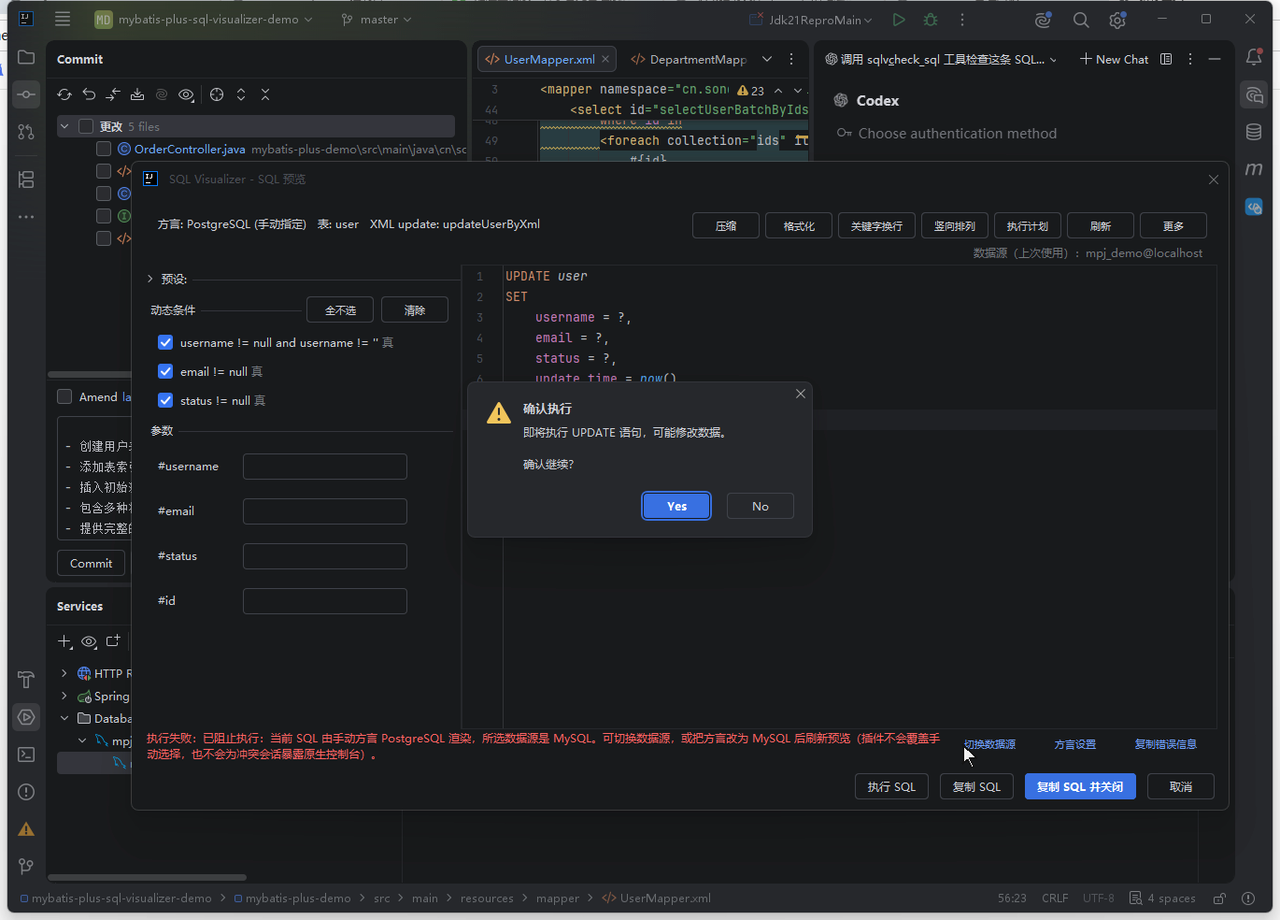
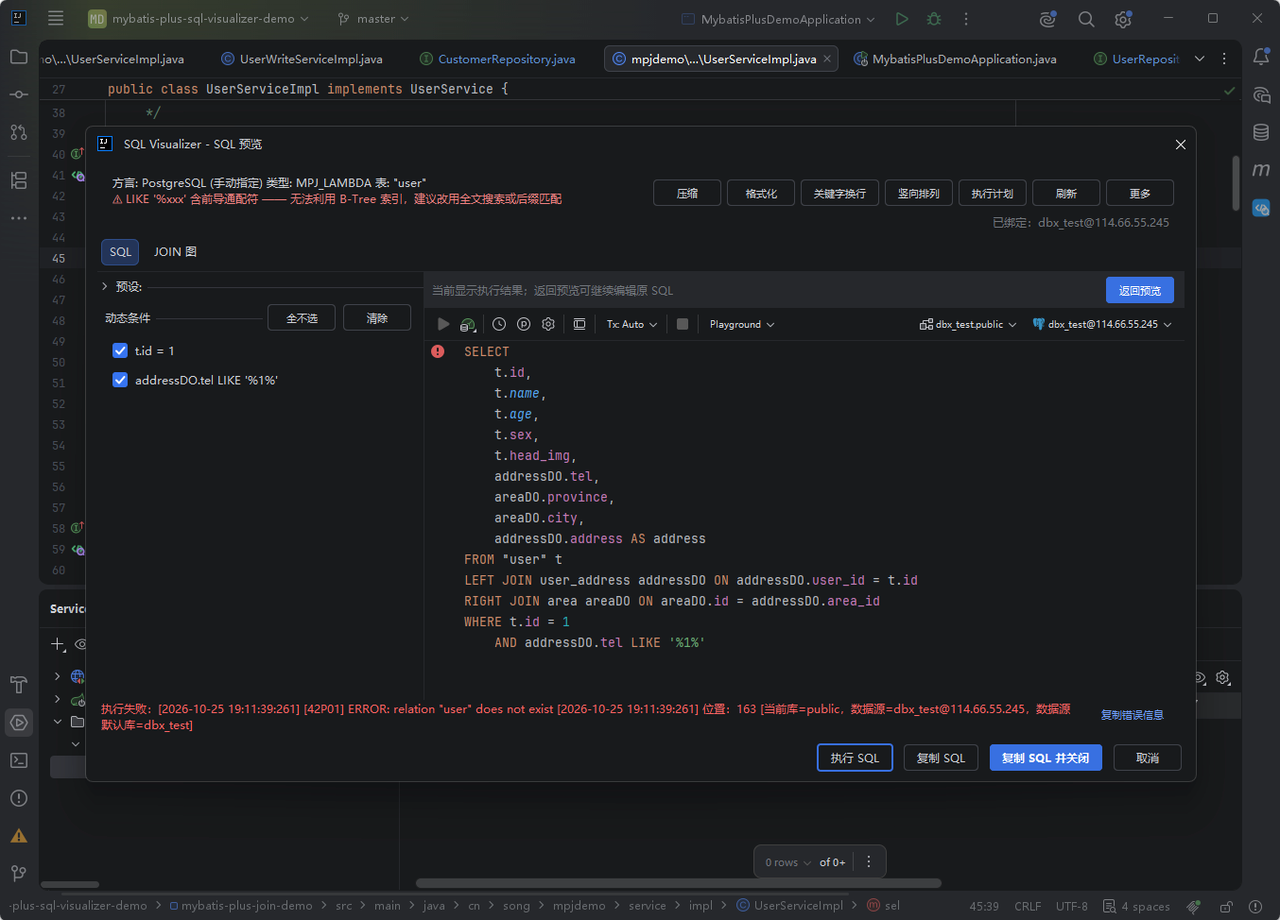
docs(wrapper-preview): 方言不一致改为「提示但不拦执行」——同步新动图与中英文案
用户 2026-10-25 定案「方言不能影响最终的执行」后，插件改成放行，本节描述与
dialect-gate.gif 一并按新语义重写：

- 原来写「结果行进入阻断态，并就地给出三个出口」，现在改成「只提示不拦执行，
  SQL 照样提交到选定数据源，由数据库自己判定」
- 补上仍保留 fail-closed 的唯一情况：有一边方言未知的写操作与 EXPLAIN
  （那是「无从判断」而非「判断出冲突」）
- 动图 alt 从「阻断态与三个出口」改为实际画面：预览按 PostgreSQL 渲染，
  执行后目标库返回 [42P01] ERROR: relation "user" does not exist
- 中英文同步

新 GIF 1280×920 / 14.3s / 0.63MB，接缝 4.01%。只提交未部署。

diff --git a/en/features/wrapper-preview.md b/en/features/wrapper-preview.md
@@ -158,15 +158,19 @@ With no data source bound, a data-source picker opens and retries automatically 
 
 ### Dialect Mismatch With the Data Source
 
-When the dialect used for preview and the dialect of the data source you want to execute against do not match (for example an Oracle-rendered SQL submitted to MySQL), the panel's result row enters a blocked state and offers three exits on the spot:
+When the dialect used for preview and the dialect of the data source you want to execute against do not match (for example an Oracle-rendered SQL submitted to MySQL), the plugin **warns but does not block**: the result row explains the mismatch, and the SQL is still submitted to the data source you picked, leaving the verdict to the database itself.
 
-<GifPlayer src="/demo/dialect-gate.gif" alt="Dialect gate blocked state with its three exits" />
+This is deliberate — the dialect belongs to rendering and inference, and should not hold a veto over execution. Once you have explicitly chosen a data source, the plugin sends the SQL as-is; whether it is valid is answered most accurately by the target database (PostgreSQL replies `ERROR: relation "user" does not exist`, MySQL replies with a syntax error).
 
-- **Switch Data Source**: pick a data source of the target dialect; once bound, the preview re-renders for the new dialect and retries
+The one case still blocked is a write or EXPLAIN where **either side's dialect is unknown** (rendered source undetermined, or the target data source's dialect cannot be resolved). That is not "a conflict was detected" but "no judgement is possible", and blindly firing PostgreSQL syntax at a MySQL database is not a risk worth taking — so it stays fail-closed.
+
+The result row also offers:
+
+- **Switch Data Source**: pick a data source that matches; once bound, the preview re-renders for the new dialect and retries
 - **Dialect Settings**: jump straight to the plugin's dialect configuration page
-- **Copy error message**: copy the whole blocked-state explanation for pasting into an issue or a chat
+- **Copy error message**: copy the whole explanation for pasting into an issue or a chat
 
-Once a data source is bound, if its dialect differs from the currently rendered one the preview re-renders for the target dialect automatically (when a lossless re-render is possible) — no manual refresh needed. The difference between manual and automatic mode: automatic mode requires a re-check before executing, while manual conflicts and unknown writes / EXPLAIN are always blocked.
+<GifPlayer src="/demo/dialect-gate.gif" alt="Mismatched dialect warns but still executes: the preview renders as PostgreSQL (dialect: PostgreSQL, manual), the SQL is delivered to the chosen PostgreSQL data source, and the database answers [42P01] ERROR: relation &quot;user&quot; does not exist — the plugin warns without blocking" />
 
 ### Real EXPLAIN Plan
 

diff --git a/features/wrapper-preview.md b/features/wrapper-preview.md
@@ -159,15 +159,19 @@ IntelliJ IDEA Ultimate + Database 插件环境下，预览后自动创建临时 
 
 ### 方言与数据源不匹配
 
-预览用的方言与要执行的数据源方言对不上时（比如按 Oracle 渲染的 SQL 要提交到 MySQL），面板结果行进入阻断态，并就地给出三个出口：
+预览用的方言与要执行的数据源方言对不上时（比如按 Oracle 渲染的 SQL 要提交到 MySQL），插件**只提示、不拦执行**：结果行给出方言不一致的说明，SQL 照样提交到你选定的数据源，由数据库自己判定。
 
-- **切换数据源**：换成目标方言的数据源，绑定后按新方言自动重渲染并重试
+这是有意的设计——方言是渲染与推断层面的事，不该成为执行层面的否决权。用户既然手动选定了数据源，插件就把 SQL 原样送过去；真正对不对，由目标库给出最准确的答案（比如 PostgreSQL 会直接回 `ERROR: relation "user" does not exist`，MySQL 会回语法错）。
+
+唯一仍然拦的情况是**有一边方言未知**（渲染来源不明或目标数据源方言取不到）的写操作与 EXPLAIN：那不是「判断出冲突」，而是「无从判断」，把 PG 语法盲投到 MySQL 库上的风险不可控，此时保持 fail-closed。
+
+结果行同时提供：
+
+- **切换数据源**：换一条方言匹配的源，绑定后按新方言自动重渲染并重试
 - **方言设置**：直达插件的方言配置页
-- **复制错误信息**：把这条阻断说明整段复制走，便于贴进 issue 或对话里核对
+- **复制错误信息**：把整段说明复制走，便于贴进 issue 或对话里核对
 
-绑定数据源后，如果新数据源的方言与当前渲染方言不同，预览会自动按目标方言重渲染（能无损重渲染时），不需要手动刷新。手动切换与自动模式的差别在于：自动模式要求先复核再执行，手动冲突与未知写/EXPLAIN 一律阻断。
-
-<GifPlayer src="/demo/dialect-gate.gif" alt="方言闸门阻断态与三个出口（切换数据源 / 方言设置 / 复制错误信息）" />
+<GifPlayer src="/demo/dialect-gate.gif" alt="方言不一致时的提示与放行：预览按 PostgreSQL 渲染（方言：PostgreSQL 手动指定），执行时选定 PostgreSQL 数据源后 SQL 直接送达，目标库返回 [42P01] ERROR: relation &quot;user&quot; does not exist —— 插件只提示不阻断" />
 
 ### EXPLAIN 真实执行计划
 
